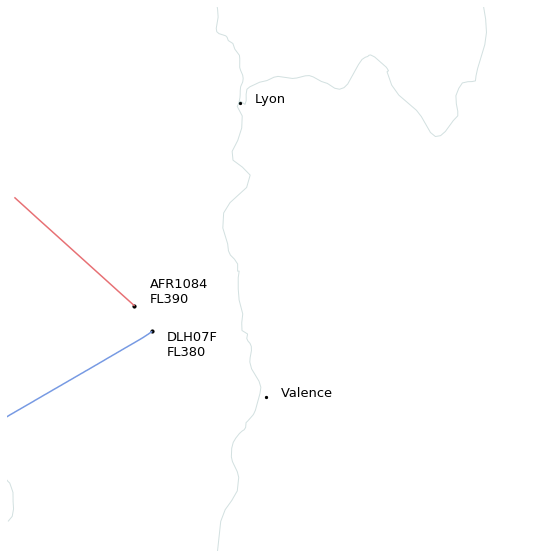
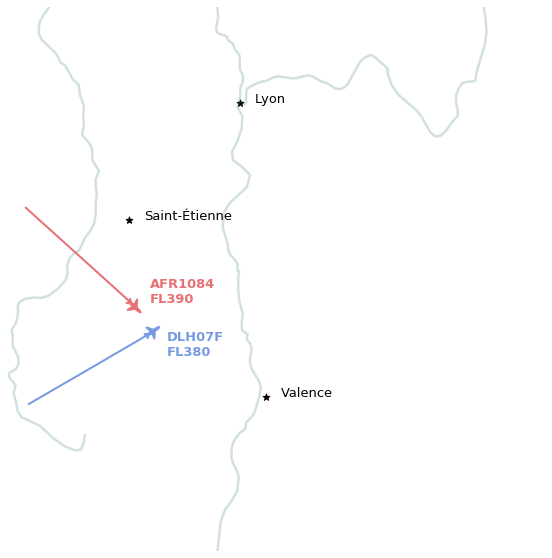
geomagnetic declination

diff --git a/docs/scenarios/geomagnetic_declination.rst b/docs/scenarios/geomagnetic_declination.rst
@@ -1,0 +1,166 @@
+Cross-wind landing and geomagnetic declination
+----------------------------------------------
+
+.. warning::
+
+    The following code snippets including experimental features which are not
+    available in the library at the time of the writing, but may appear in a
+    near future.
+
+
+The following situation refers to a flight I boarded, bound for Kansai airport,
+Japan (RJBB). The flight encountered reasonable cross wind during final
+approach. The regular behaviour then is to perform a crab approach, then to
+remove the crab angle during the touchdown.
+
+Let's have a look at the data. The following simply plots a map of the last
+minutes of flight, together with a reconstructed windfield. (code below)
+
+Together with timestamps corresponding to the catching of the ILS signal and of
+the landing, we can plot both track and heading angles of the aircraft. Both
+angles, together with ground and true air speed measures help construct
+windfields in general.
+
+.. note::
+
+    See `Flight.compute_wind()
+    </traffic.core.flight.html#traffic.core.Flight.compute_wind>`_ and
+    `Flight.plot_wind()
+    </traffic.core.flight.html#traffic.core.Flight.plot_wind>`_.
+
+.. image:: images/magnetic_map.png
+   :scale: 70%
+   :alt: Situational map
+   :align: center
+
+Here, since we have very few measurements points for the heading angle, we did
+not resample the trajectories prior to treatments. Let's observe the granular data as decoded onboard (code below)
+
+.. image:: images/magnetic_delta.png
+   :scale: 70%
+   :alt: Situational map
+   :align: center
+
+
+There are, for sure, few points requested with heading angles. Yet we can clearly see that:
+
+- the differences between the two angles (about 16°) when the aircraft is aligned on the ILS reflects the crab approach;
+- the moment when the aircraft removes the crab angle appears clearly after landing, yet it is not going down to zero (about 7.5°).
+
+.. warning::
+
+    The explanation lies in a subtle nuance in the Mode S specifications:
+
+    - ADS-B broadcasts a **true track angle** (i.e. with respect to the **geographical North**)
+    - BDS 5,0 replies with a **magnetic heading** (i.e. with respect to the **magnetic North**)
+
+    Looking at the `World Magnetic Model <https://ngdc.noaa.gov/geomag/WMM/data/WMM2020/WMM2020_D_BoZ_MILL.pdf>`_ for the declination map, the resulting 7.5° looks conformal to the model!
+
+.. code:: python
+
+    # Select the first segment aligned on any ILS for RJBB
+    ils = next(flight.aligned_on_ils("RJBB"))
+    # Select the most reasonable runway used for landing or take-off.
+    rwy = flight.on_runway("RJBB")
+
+.. code:: python
+
+    from traffic.core.projection import Mercator
+
+    from traffic.data import airports, navaids
+
+    from traffic.drawing import countries, location
+    from traffic.drawing.markers import rotate_marker, aircraft
+
+
+    with plt.style.context("traffic"):
+
+        fig, ax = plt.subplots(subplot_kw=dict(projection=Mercator()))
+
+        airports["RJBB"].plot(ax, edgecolor="#0e1111", linewidth=0.4, alpha=0.9)
+
+        flight.plot(ax, lw=1.5)
+
+        # The segment aligned on ILS in one color
+        x, *_ = ils.plot(ax, lw=2.5, color="crimson")
+        ils.at_ratio(0.6).plot(
+            ax,
+            s=700,
+            color=x.get_color(),
+            marker=rotate_marker(aircraft, ils.at_ratio(0.6).heading),
+            text_kw=dict(s=" aligned on 24L", fontname="Ubuntu", fontsize=14),
+        )
+
+        # The segment when the aircraft is on the runway in another color
+        x, *_ = rwy.plot(ax, lw=2.5, color="green")
+        rwy.at_ratio(0.6).plot(
+            ax,
+            s=500,
+            marker=rotate_marker(aircraft, rwy.at_ratio(0.6).heading - 7.56),
+            color=x.get_color(),
+            text_kw=dict(s=" landed on 24L", fontname="Ubuntu", fontsize=14),
+        )
+
+        (
+            flight  # .assign(heading=lambda df: df.heading - 7.56)
+            .resample("1s")
+            .compute_wind()
+            .query("altitude > 500")
+            .plot_wind(
+                ax, resolution=dict(latitude=15, longitude=15), alpha=0.5, color="#0e1111",
+            )
+        )
+
+        ax.set_extent((135.2, 135.4, 34.4, 34.62))
+        ax.outline_patch.set_visible(False)
+
+
+.. code:: python
+
+    from matplotlib.dates import DateFormatter
+
+    center_15 = dict(fontname="Ubuntu", fontsize=15, horizontalalignment="center")
+    marker_style = dict(color="#0b1111", linewidth=3, marker="o", markersize=6)
+
+    with plt.style.context("traffic"):
+
+        fig, ax = plt.subplots(figsize=(10, 7))
+
+        flight.plot_time(ax, ["track", "heading"], marker=".")
+
+        # Annotate the different phases of landing
+        ax.plot([ils.start, ils.stop], [210, 210], color="#0b1111", linewidth=3, marker="d")
+        ax.text(ils.start + ils.duration / 2, 204, "aligned on runway 24L", **center_15)
+
+        ax.plot([rwy.start, rwy.stop], [220, 220], color="#0b1111", linewidth=3, marker="d")
+        ax.text(rwy.start + rwy.duration / 2, 214, "landing on runway 24L", **center_15)
+
+        # Annotate the differences
+        ax.plot(
+            [ils.start + ils.duration / 2, ils.start + ils.duration / 2,],
+            [ils.max("heading"), ils.max("track")], **marker_style
+        )
+
+        ax.plot(
+            [rwy.start + rwy.duration / 3, rwy.start + rwy.duration / 3,],
+            [rwy.max("heading"), rwy.max("track")], **marker_style
+        )
+
+        ax.text(
+            ils.start + ils.duration / 2,
+            (ils.max("heading") + ils.max("track")) / 2,
+            f"  δ = {ils.max('heading') - ils.max('track'):.2f}°",
+            horizontalalignment="left", **center_15
+        )
+
+        ax.text(
+            rwy.start + rwy.duration / 3,
+            (rwy.max("heading") + rwy.max("track")) / 2,
+            f"  δ = {rwy.max('heading') - rwy.max('track'):.2f}°",
+            horizontalalignment="left", **center_15
+        )
+
+        # Simplify the formatting for dates on the x-axis
+        ax.xaxis.set_major_formatter(DateFormatter("%H:%M"))
+        fig.autofmt_xdate(rotation=0, ha="center")
+    

diff --git a/docs/scenarios/is_this_a_plane.rst b/docs/scenarios/is_this_a_plane.rst
@@ -164,7 +164,9 @@ Tunis). Let's plot their lateral distance vs. time.
     import matplotlib.pyplot as plt
     
     with plt.style.context('traffic'):
+
         fig, ax = plt.subplots(figsize=(10, 7))
+
         flight.distance(around['AFR1084']).plot(
             ax=ax, x='timestamp', y='d_horz',
             label="Lateral distance between aircraft (in nm)"
@@ -187,41 +189,46 @@ altitude though.
 
     
     from traffic.drawing import Lambert93, countries, rivers, location
-    
-    with plt.style.context('traffic'):
-        
-        fig, ax = plt.subplots(
-            subplot_kw=dict(projection=Lambert93())
-        )
+    from traffic.drawing.markers import rotate_marker, aircraft
+
+    with plt.style.context("traffic"):
+
+        fig, ax = plt.subplots(subplot_kw=dict(projection=Lambert93()))
+
         ax.add_feature(countries())
-        ax.add_feature(rivers())
-        
+        ax.add_feature(rivers(linewidth=2.5))
         ax.set_extent((3.9, 6, 44.5, 46))
-        
-        location('Lyon').point.plot(
-            ax, s=5, text_kw=dict(s='Lyon')
+
+        location("Lyon").point.plot(
+            ax, s=50, marker="*", text_kw=dict(s="Lyon")
         )
-        location('Valence, France').point.plot(
-            ax, s=5, text_kw=dict(s='Valence')
+        location("Valence, France").point.plot(
+            ax, s=50, marker="*", text_kw=dict(s="Valence")
         )
-        
-        for cs in ['DLH07F', 'AFR1084']:
-            t1[cs].before("2018-11-15 06:42").last(minutes=5).plot(ax)
-            
-            p = t1[cs].at("2018-11-15 06:42")
+        location("Saint-Étienne").point.plot(
+            ax, s=50, marker="*", text_kw=dict(s="Saint-Étienne")
+        )
+
+        for i, cs in enumerate(["DLH07F", "AFR1084"]):
+            x, *_ = (
+                around[cs].before("2018-11-15 06:42").last(minutes=5).plot(ax, linewidth=2)
+            )
+
+            p = around[cs].at("2018-11-15 06:42")
             p.plot(
-                ax, s=10,
+                ax,
+                s=300,
+                marker=rotate_marker(aircraft, p.track),
+                color=x.get_color(),
                 text_kw=dict(
                     s=f"{cs}\nFL{p.altitude/100:.0f}",
-                    verticalalignment="top" if cs=='DLH07F' else "bottom",
+                    verticalalignment="top" if i % 2 == 0 else "bottom",
+                    color=x.get_color(),
+                    fontweight="bold",
                 ),
             )
-        
+
         ax.outline_patch.set_visible(False)
-       
-        
-
-
 
 .. image:: images/aircraft_map.png
    :scale: 70%

diff --git a/docs/scenarios.rst b/docs/scenarios.rst
@@ -7,3 +7,4 @@ Scenarios and use cases
     scenarios/is_this_a_plane
     scenarios/windfield
     scenarios/calibration
+    scenarios/geomagnetic_declination
